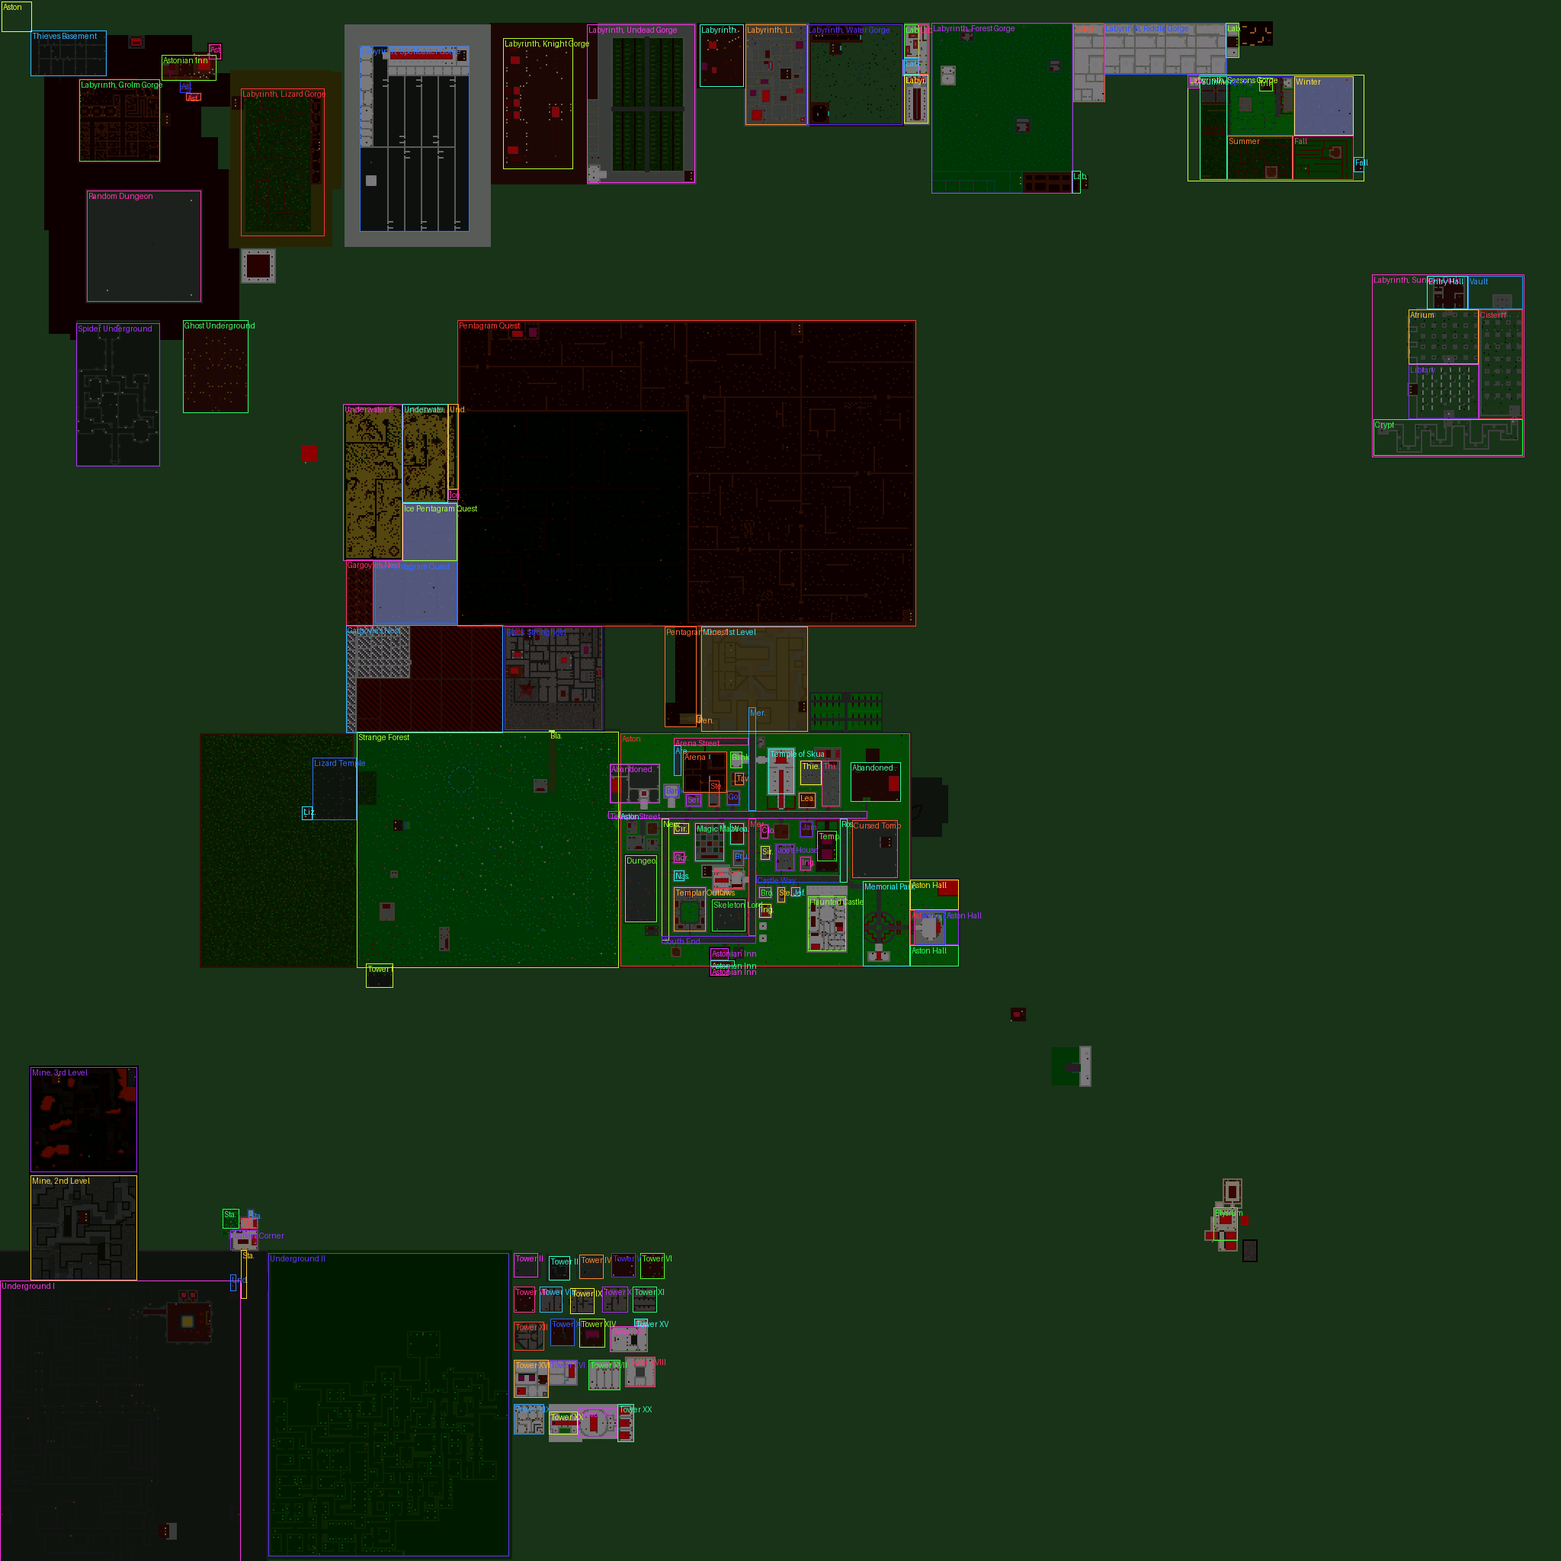
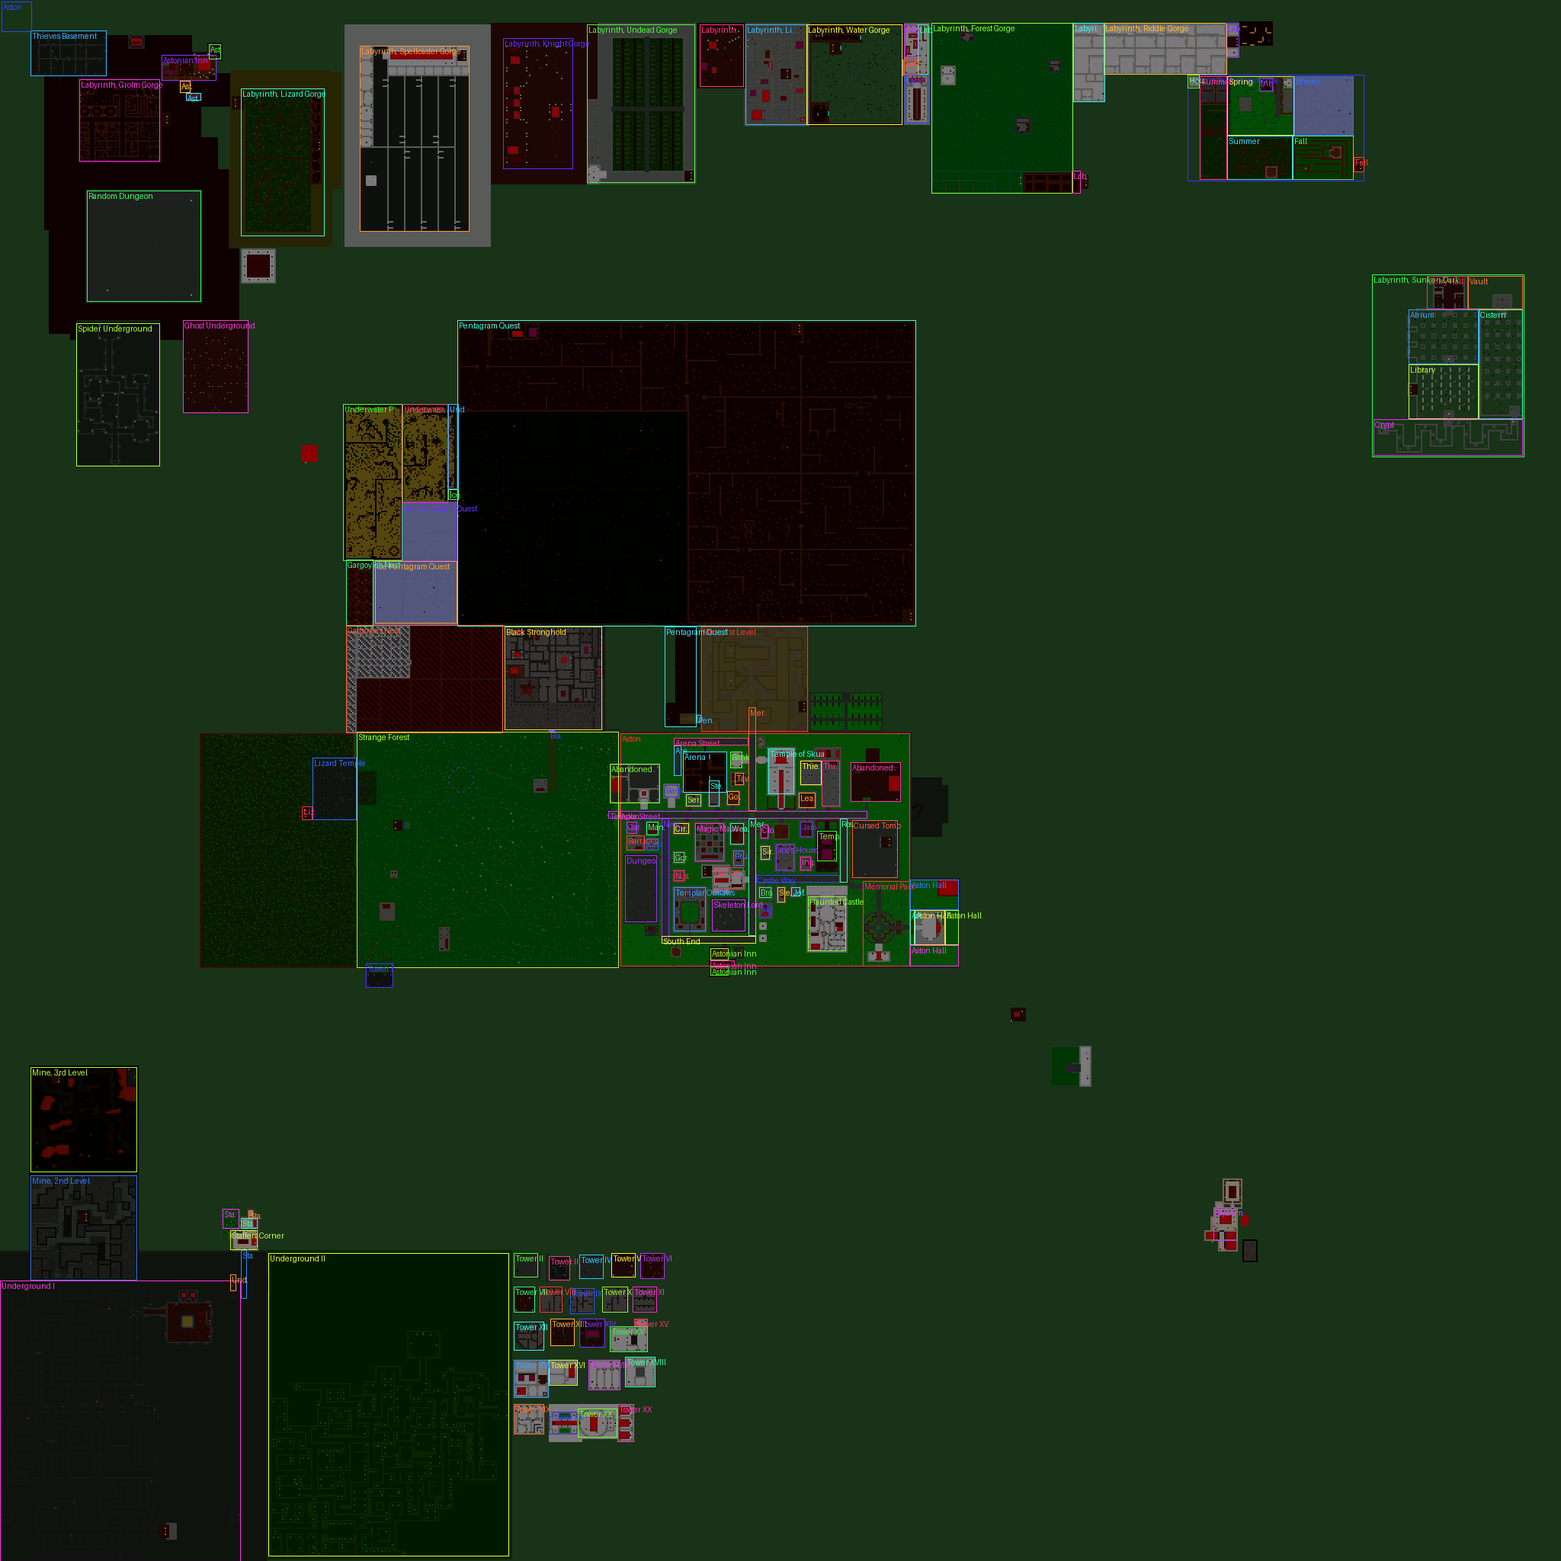
Aston zone names: Garna's Shop, Manfred's House, Leopold's House, Barracks
Claude-Session: https://claude.ai/code/session_01MSjWpMgByR7PswdtguveBk

diff --git a/server/area.c b/server/area.c
@@ -53,6 +53,10 @@ struct area area[]={
         {484,442,       488,490,        "Arena Street",                 2},
         {489,442,       508,446,        "Arena Street",                 2},
         {540,442,       546,451,        "Cirrus' House",                0},
+        {539,411,       546,417,        "Garna's Shop",                 0},
+        {539,424,       547,431,        "Manfred's House",              0},
+        {548,411,       557,422,        "Barracks",                     1},
+        {550,424,       557,431,        "Leopold's House",              0},
         {521,450,       528,459,        "Serena's House",               0},
         {540,456,       564,474,        "Magic Maze",                   1},
         {512,465,       528,471,        "Steven's House",               0},

diff --git a/docs/world_zones.md b/docs/world_zones.md
@@ -39,121 +39,125 @@ Shown by `/who`, by NPCs when asked where you are, and in server logs. A spot in
 | 29 | Arena Street | 484,442 | 488,490 | "on Arena Street" |
 | 30 | Arena Street | 489,442 | 508,446 | "on Arena Street" |
 | 31 | Cirrus' House | 540,442 | 546,451 | "in Cirrus' House" |
-| 32 | Serena's House | 521,450 | 528,459 | "in Serena's House" |
-| 33 | Magic Maze | 540,456 | 564,474 | "in the Magic Maze" |
-| 34 | Steven's House | 512,465 | 528,471 | "in Steven's House" |
-| 35 | Golden Armor Shop | 519,477 | 527,484 | "in the Golden Armor Shop" |
-| 36 | New Street | 537,434 | 616,438 | "on New Street" |
-| 37 | Gordon's House | 559,442 | 565,448 | "in Gordon's House" |
-| 38 | Nasir's House | 571,442 | 577,448 | "in Nasir's House" |
-| 39 | Templar Outlaws | 582,442 | 610,462 | "at Templar Outlaws" |
-| 40 | South End | 614,434 | 618,495 | "on South End" |
-| 41 | Skeleton Lord | 590,467 | 610,488 | "at Skeleton Lord" |
-| 42 | Merchant's Way | 537,491 | 613,495 | "on Merchant's Way" |
-| 43 | Merchant's Way | 464,491 | 531,495 | "on Merchant's Way" |
-| 44 | Ingrid's House | 593,498 | 601,505 | "in Ingrid's House" |
-| 45 | Abandoned Kwai Clan Hall | 501,400 | 526,432 | "in the Abandoned Kwai Clan Hall" |
-| 46 | Abandoned Gorn Clan Hall | 500,558 | 525,590 | "in the Abandoned Gorn Clan Hall" |
-| 47 | Arena | 493,448 | 519,476 | "in the Arena" |
-| 48 | Black Stronghold | 411,331 | 478,394 | "in the Black Stronghold" |
-| 49 | Dungeon of Doors | 561,410 | 604,430 | "in the Dungeon of Doors" |
-| 50 | Random Dungeon | 125,57 | 197,131 | "in the Random Dungeon" |
-| 51 | Mine, 1st Level | 411,460 | 479,529 | "in the Mine, 1st Level" |
-| 52 | Mine, 2nd Level | 771,20 | 839,89 | "in the Mine, 2nd Level" |
-| 53 | Mine, 3rd Level | 700,20 | 768,89 | "in the Mine, 3rd Level" |
-| 54 | Labyrinth, Grolm Gorge | 52,52 | 105,104 | "in the Labyrinth, Grolm Gorge" |
-| 55 | Labyrinth, Lizard Gorge | 58,158 | 154,212 | "in the Labyrinth, Lizard Gorge" |
-| 56 | Labyrinth, Spellcaster Gorge | 30,236 | 151,307 | "in the Labyrinth, Spellcaster Gorge" |
-| 57 | Labyrinth, Knight Gorge | 25,330 | 110,375 | "in the Labyrinth, Knight Gorge" |
-| 58 | Labyrinth, Undead Gorge | 16,385 | 119,455 | "in the Labyrinth, Undead Gorge" |
-| 59 | Labyrinth, Undead Gorge | 16,459 | 56,487 | "in the Labyrinth, Undead Gorge" |
-| 60 | Labyrinth, Light&Dark Gorge | 16,489 | 81,529 | "in the Labyrinth, Light&Dark Gorge" |
-| 61 | Labyrinth, Water Gorge | 16,529 | 81,591 | "in the Labyrinth, Water Gorge" |
-| 62 | Labyrinth, Final Entry | 16,593 | 37,602 | "in the Labyrinth, Final Entry" |
-| 63 | Labyrinth, Final Preparations | 16,602 | 48,608 | "in the Labyrinth, Final Preparations" |
-| 64 | Labyrinth, Final Test | 38,593 | 48,602 | "in the Labyrinth, Final Test" |
-| 65 | Labyrinth, Final Reward | 49,593 | 80,608 | "in the Labyrinth, Final Reward" |
-| 66 | Labyrinth, Forest Gorge | 15,611 | 126,703 | "in the Labyrinth, Forest Gorge" |
-| 67 | Labyrinth, Forest Gorge | 112,703 | 126,708 | "in the Labyrinth, Forest Gorge" |
-| 68 | Labyrinth, Riddle Gorge | 15,704 | 66,724 | "in the Labyrinth, Riddle Gorge" |
-| 69 | Labyrinth, Riddle Gorge | 15,724 | 48,804 | "in the Labyrinth, Riddle Gorge" |
-| 70 | Labyrinth, Riddle Gorge | 15,804 | 37,812 | "in the Labyrinth, Riddle Gorge" |
-| 71 | Labyrinth, Sunken Dark | 180,900 | 299,999 | "in the Labyrinth, Sunken Dark" |
-| 72 | Entry Hall | 181,936 | 202,962 | "in the Entry Hall" |
-| 73 | Atrium | 203,924 | 238,969 | "in the Atrium" |
-| 74 | Library | 239,924 | 274,969 | "in the Library" |
-| 75 | Crypt | 275,901 | 298,998 | "in the Crypt" |
-| 76 | Cistern | 203,970 | 274,998 | "in the Cistern" |
-| 77 | Vault | 181,963 | 202,998 | "in the Vault" |
-| 78 | Labyrinth, Seasons Gorge | 49,779 | 118,894 | "in the Labyrinth, Seasons Gorge" |
-| 79 | Hourglass Chamber | 49,779 | 57,786 | "in the Hourglass Chamber" |
-| 80 | Summer | 50,787 | 117,804 | "in Summer" |
-| 81 | Summer | 89,805 | 117,847 | "in Summer" |
-| 82 | Spring | 50,805 | 88,848 | "in Spring" |
-| 83 | Inn | 51,826 | 59,834 | "in the Inn" |
-| 84 | Fall | 89,848 | 117,887 | "in Fall" |
-| 85 | Fall | 103,888 | 112,894 | "in Fall" |
-| 86 | Winter | 50,849 | 88,887 | "in Winter" |
-| 87 | Spider Underground | 212,50 | 305,104 | "in the Spider Underground" |
-| 88 | Ghost Underground | 210,120 | 270,162 | "in the Ghost Underground" |
-| 89 | Pentagram Quest | 210,300 | 410,600 | "in the Pentagram Quest" |
-| 90 | Ice Pentagram Quest | 368,246 | 408,299 | "in the Ice Pentagram Quest" |
-| 91 | Ice Pentagram Quest | 330,264 | 367,299 | "in the Ice Pentagram Quest" |
-| 92 | Underwater Pentagram Quest | 265,225 | 367,263 | "in the Underwater Pentagram Quest" |
-| 93 | Underwater Pentagram Quest | 265,264 | 329,293 | "in the Underwater Pentagram Quest" |
-| 94 | Underwater Pentagram Quest | 265,294 | 320,300 | "in the Underwater Pentagram Quest" |
-| 95 | Underground II | 822,176 | 1020,333 | "in the Underground II" |
-| 96 | Elysium | 792,796 | 813,811 | "in the Elysium" |
-| 97 | Gargoyle's Nest | 367,227 | 410,244 | "in the Gargoyle's Nest" |
-| 98 | Gargoyle's Nest | 410,227 | 480,329 | "in the Gargoyle's Nest" |
-| 99 | Aston | 1,1 | 20,20 | "in Aston" |
-| 100 | Astonian Inn | 622,466 | 629,477 | "in the Astonian Inn" |
-| 101 | Astonian Inn | 630,466 | 633,481 | "in the Astonian Inn" |
-| 102 | Astonian Inn | 61,122 | 65,131 | "in the Astonian Inn" |
-| 103 | Astonian Inn | 53,118 | 60,124 | "in the Astonian Inn" |
-| 104 | Astonian Inn | 36,106 | 52,141 | "in the Astonian Inn" |
-| 105 | Astonian Inn | 29,137 | 38,144 | "in the Astonian Inn" |
-| 106 | Memorial Park | 578,566 | 633,596 | "in the Memorial Park" |
-| 107 | Staffers Corner | 820,158 | 851,161 | "in the Staffers Corner" |
-| 108 | Staffers Corner | 807,151 | 819,168 | "in the Staffers Corner" |
-| 109 | Staffers Corner | 793,146 | 805,156 | "in the Staffers Corner" |
-| 110 | Staffers Corner | 799,158 | 805,168 | "in the Staffers Corner" |
-| 111 | Staffers Corner | 794,163 | 798,165 | "in the Staffers Corner" |
-| 112 | Tower I | 632,240 | 647,257 | "in the Tower I" |
-| 113 | Tower II | 822,337 | 837,352 | "in the Tower II" |
-| 114 | Tower III | 824,360 | 839,373 | "in the Tower III" |
-| 115 | Tower IV | 823,380 | 838,395 | "in the Tower IV" |
-| 116 | Tower V | 822,401 | 837,416 | "in the Tower V" |
-| 117 | Tower VI | 822,420 | 838,435 | "in the Tower VI" |
-| 118 | Tower VII | 844,337 | 860,350 | "in the Tower VII" |
-| 119 | Tower VIII | 844,354 | 860,368 | "in the Tower VIII" |
-| 120 | Tower IX | 845,374 | 861,389 | "in the Tower IX" |
-| 121 | Tower X | 844,395 | 860,411 | "in the Tower X" |
-| 122 | Tower XI | 844,415 | 860,430 | "in the Tower XI" |
-| 123 | Tower XII | 867,337 | 885,356 | "in the Tower XII" |
-| 124 | Tower XIII | 865,361 | 882,376 | "in the Tower XIII" |
-| 125 | Tower XIV | 865,380 | 883,396 | "in the Tower XIV" |
-| 126 | Tower XV | 870,400 | 886,424 | "in the Tower XV" |
-| 127 | Tower XV | 865,416 | 869,424 | "in the Tower XV" |
-| 128 | Tower XVI | 892,337 | 916,359 | "in the Tower XVI" |
-| 129 | Tower XVI | 892,360 | 908,378 | "in the Tower XVI" |
-| 130 | Tower XVII | 892,386 | 911,406 | "in the Tower XVII" |
-| 131 | Tower XVIII | 890,410 | 909,429 | "in the Tower XVIII" |
-| 132 | Tower XIX | 921,337 | 940,356 | "in the Tower XIX" |
-| 133 | Tower XX | 926,360 | 940,378 | "in the Tower XX" |
-| 134 | Tower XX | 924,379 | 942,404 | "in the Tower XX" |
-| 135 | Tower XX | 921,405 | 945,415 | "in the Tower XX" |
-| 136 | Pentagram Quest | 411,436 | 476,456 | "in the Pentagram Quest" |
-| 137 | Aston Hall | 597,600 | 619,619 | "in Aston Hall" |
-| 138 | Lizard Temple Shrine | 529,198 | 537,204 | "in the Lizard Temple Shrine" |
-| 139 | Ice Pents Shrine | 321,294 | 327,300 | "in the Ice Pents Shrine" |
-| 140 | Lizard Temple Shrine | 529,198 | 537,204 | "in the Lizard Temple Shrine" |
-| 141 | Aston Hall | 577,597 | 596,628 | "in the Aston Hall" |
-| 142 | Aston Hall | 597,620 | 619,628 | "in the Aston Hall" |
-| 143 | Aston Hall | 620,597 | 633,628 | "in the Aston Hall" |
-| 144 | Aston Hall | 597,597 | 619,599 | "in the Aston Hall" |
-| 145 | Underground I | 836,151 | 846,154 | "in the Underground I" |
-| 146 | Black Stronghold | 479,360 | 479,363 | "in the Black Stronghold" |
-| 147 | Astonian Inn | 634,466 | 639,477 | "in the Astonian Inn" |
-| 148 | Aston | 532,406 | 536,406 | "in Aston" |
-| 149 | Pentagram Quest | 469,457 | 473,459 | "in the Pentagram Quest" |
+| 32 | Garna's Shop | 539,411 | 546,417 | "in Garna's Shop" |
+| 33 | Manfred's House | 539,424 | 547,431 | "in Manfred's House" |
+| 34 | Barracks | 548,411 | 557,422 | "in the Barracks" |
+| 35 | Leopold's House | 550,424 | 557,431 | "in Leopold's House" |
+| 36 | Serena's House | 521,450 | 528,459 | "in Serena's House" |
+| 37 | Magic Maze | 540,456 | 564,474 | "in the Magic Maze" |
+| 38 | Steven's House | 512,465 | 528,471 | "in Steven's House" |
+| 39 | Golden Armor Shop | 519,477 | 527,484 | "in the Golden Armor Shop" |
+| 40 | New Street | 537,434 | 616,438 | "on New Street" |
+| 41 | Gordon's House | 559,442 | 565,448 | "in Gordon's House" |
+| 42 | Nasir's House | 571,442 | 577,448 | "in Nasir's House" |
+| 43 | Templar Outlaws | 582,442 | 610,462 | "at Templar Outlaws" |
+| 44 | South End | 614,434 | 618,495 | "on South End" |
+| 45 | Skeleton Lord | 590,467 | 610,488 | "at Skeleton Lord" |
+| 46 | Merchant's Way | 537,491 | 613,495 | "on Merchant's Way" |
+| 47 | Merchant's Way | 464,491 | 531,495 | "on Merchant's Way" |
+| 48 | Ingrid's House | 593,498 | 601,505 | "in Ingrid's House" |
+| 49 | Abandoned Kwai Clan Hall | 501,400 | 526,432 | "in the Abandoned Kwai Clan Hall" |
+| 50 | Abandoned Gorn Clan Hall | 500,558 | 525,590 | "in the Abandoned Gorn Clan Hall" |
+| 51 | Arena | 493,448 | 519,476 | "in the Arena" |
+| 52 | Black Stronghold | 411,331 | 478,394 | "in the Black Stronghold" |
+| 53 | Dungeon of Doors | 561,410 | 604,430 | "in the Dungeon of Doors" |
+| 54 | Random Dungeon | 125,57 | 197,131 | "in the Random Dungeon" |
+| 55 | Mine, 1st Level | 411,460 | 479,529 | "in the Mine, 1st Level" |
+| 56 | Mine, 2nd Level | 771,20 | 839,89 | "in the Mine, 2nd Level" |
+| 57 | Mine, 3rd Level | 700,20 | 768,89 | "in the Mine, 3rd Level" |
+| 58 | Labyrinth, Grolm Gorge | 52,52 | 105,104 | "in the Labyrinth, Grolm Gorge" |
+| 59 | Labyrinth, Lizard Gorge | 58,158 | 154,212 | "in the Labyrinth, Lizard Gorge" |
+| 60 | Labyrinth, Spellcaster Gorge | 30,236 | 151,307 | "in the Labyrinth, Spellcaster Gorge" |
+| 61 | Labyrinth, Knight Gorge | 25,330 | 110,375 | "in the Labyrinth, Knight Gorge" |
+| 62 | Labyrinth, Undead Gorge | 16,385 | 119,455 | "in the Labyrinth, Undead Gorge" |
+| 63 | Labyrinth, Undead Gorge | 16,459 | 56,487 | "in the Labyrinth, Undead Gorge" |
+| 64 | Labyrinth, Light&Dark Gorge | 16,489 | 81,529 | "in the Labyrinth, Light&Dark Gorge" |
+| 65 | Labyrinth, Water Gorge | 16,529 | 81,591 | "in the Labyrinth, Water Gorge" |
+| 66 | Labyrinth, Final Entry | 16,593 | 37,602 | "in the Labyrinth, Final Entry" |
+| 67 | Labyrinth, Final Preparations | 16,602 | 48,608 | "in the Labyrinth, Final Preparations" |
+| 68 | Labyrinth, Final Test | 38,593 | 48,602 | "in the Labyrinth, Final Test" |
+| 69 | Labyrinth, Final Reward | 49,593 | 80,608 | "in the Labyrinth, Final Reward" |
+| 70 | Labyrinth, Forest Gorge | 15,611 | 126,703 | "in the Labyrinth, Forest Gorge" |
+| 71 | Labyrinth, Forest Gorge | 112,703 | 126,708 | "in the Labyrinth, Forest Gorge" |
+| 72 | Labyrinth, Riddle Gorge | 15,704 | 66,724 | "in the Labyrinth, Riddle Gorge" |
+| 73 | Labyrinth, Riddle Gorge | 15,724 | 48,804 | "in the Labyrinth, Riddle Gorge" |
+| 74 | Labyrinth, Riddle Gorge | 15,804 | 37,812 | "in the Labyrinth, Riddle Gorge" |
+| 75 | Labyrinth, Sunken Dark | 180,900 | 299,999 | "in the Labyrinth, Sunken Dark" |
+| 76 | Entry Hall | 181,936 | 202,962 | "in the Entry Hall" |
+| 77 | Atrium | 203,924 | 238,969 | "in the Atrium" |
+| 78 | Library | 239,924 | 274,969 | "in the Library" |
+| 79 | Crypt | 275,901 | 298,998 | "in the Crypt" |
+| 80 | Cistern | 203,970 | 274,998 | "in the Cistern" |
+| 81 | Vault | 181,963 | 202,998 | "in the Vault" |
+| 82 | Labyrinth, Seasons Gorge | 49,779 | 118,894 | "in the Labyrinth, Seasons Gorge" |
+| 83 | Hourglass Chamber | 49,779 | 57,786 | "in the Hourglass Chamber" |
+| 84 | Summer | 50,787 | 117,804 | "in Summer" |
+| 85 | Summer | 89,805 | 117,847 | "in Summer" |
+| 86 | Spring | 50,805 | 88,848 | "in Spring" |
+| 87 | Inn | 51,826 | 59,834 | "in the Inn" |
+| 88 | Fall | 89,848 | 117,887 | "in Fall" |
+| 89 | Fall | 103,888 | 112,894 | "in Fall" |
+| 90 | Winter | 50,849 | 88,887 | "in Winter" |
+| 91 | Spider Underground | 212,50 | 305,104 | "in the Spider Underground" |
+| 92 | Ghost Underground | 210,120 | 270,162 | "in the Ghost Underground" |
+| 93 | Pentagram Quest | 210,300 | 410,600 | "in the Pentagram Quest" |
+| 94 | Ice Pentagram Quest | 368,246 | 408,299 | "in the Ice Pentagram Quest" |
+| 95 | Ice Pentagram Quest | 330,264 | 367,299 | "in the Ice Pentagram Quest" |
+| 96 | Underwater Pentagram Quest | 265,225 | 367,263 | "in the Underwater Pentagram Quest" |
+| 97 | Underwater Pentagram Quest | 265,264 | 329,293 | "in the Underwater Pentagram Quest" |
+| 98 | Underwater Pentagram Quest | 265,294 | 320,300 | "in the Underwater Pentagram Quest" |
+| 99 | Underground II | 822,176 | 1020,333 | "in the Underground II" |
+| 100 | Elysium | 792,796 | 813,811 | "in the Elysium" |
+| 101 | Gargoyle's Nest | 367,227 | 410,244 | "in the Gargoyle's Nest" |
+| 102 | Gargoyle's Nest | 410,227 | 480,329 | "in the Gargoyle's Nest" |
+| 103 | Aston | 1,1 | 20,20 | "in Aston" |
+| 104 | Astonian Inn | 622,466 | 629,477 | "in the Astonian Inn" |
+| 105 | Astonian Inn | 630,466 | 633,481 | "in the Astonian Inn" |
+| 106 | Astonian Inn | 61,122 | 65,131 | "in the Astonian Inn" |
+| 107 | Astonian Inn | 53,118 | 60,124 | "in the Astonian Inn" |
+| 108 | Astonian Inn | 36,106 | 52,141 | "in the Astonian Inn" |
+| 109 | Astonian Inn | 29,137 | 38,144 | "in the Astonian Inn" |
+| 110 | Memorial Park | 578,566 | 633,596 | "in the Memorial Park" |
+| 111 | Staffers Corner | 820,158 | 851,161 | "in the Staffers Corner" |
+| 112 | Staffers Corner | 807,151 | 819,168 | "in the Staffers Corner" |
+| 113 | Staffers Corner | 793,146 | 805,156 | "in the Staffers Corner" |
+| 114 | Staffers Corner | 799,158 | 805,168 | "in the Staffers Corner" |
+| 115 | Staffers Corner | 794,163 | 798,165 | "in the Staffers Corner" |
+| 116 | Tower I | 632,240 | 647,257 | "in the Tower I" |
+| 117 | Tower II | 822,337 | 837,352 | "in the Tower II" |
+| 118 | Tower III | 824,360 | 839,373 | "in the Tower III" |
+| 119 | Tower IV | 823,380 | 838,395 | "in the Tower IV" |
+| 120 | Tower V | 822,401 | 837,416 | "in the Tower V" |
+| 121 | Tower VI | 822,420 | 838,435 | "in the Tower VI" |
+| 122 | Tower VII | 844,337 | 860,350 | "in the Tower VII" |
+| 123 | Tower VIII | 844,354 | 860,368 | "in the Tower VIII" |
+| 124 | Tower IX | 845,374 | 861,389 | "in the Tower IX" |
+| 125 | Tower X | 844,395 | 860,411 | "in the Tower X" |
+| 126 | Tower XI | 844,415 | 860,430 | "in the Tower XI" |
+| 127 | Tower XII | 867,337 | 885,356 | "in the Tower XII" |
+| 128 | Tower XIII | 865,361 | 882,376 | "in the Tower XIII" |
+| 129 | Tower XIV | 865,380 | 883,396 | "in the Tower XIV" |
+| 130 | Tower XV | 870,400 | 886,424 | "in the Tower XV" |
+| 131 | Tower XV | 865,416 | 869,424 | "in the Tower XV" |
+| 132 | Tower XVI | 892,337 | 916,359 | "in the Tower XVI" |
+| 133 | Tower XVI | 892,360 | 908,378 | "in the Tower XVI" |
+| 134 | Tower XVII | 892,386 | 911,406 | "in the Tower XVII" |
+| 135 | Tower XVIII | 890,410 | 909,429 | "in the Tower XVIII" |
+| 136 | Tower XIX | 921,337 | 940,356 | "in the Tower XIX" |
+| 137 | Tower XX | 926,360 | 940,378 | "in the Tower XX" |
+| 138 | Tower XX | 924,379 | 942,404 | "in the Tower XX" |
+| 139 | Tower XX | 921,405 | 945,415 | "in the Tower XX" |
+| 140 | Pentagram Quest | 411,436 | 476,456 | "in the Pentagram Quest" |
+| 141 | Aston Hall | 597,600 | 619,619 | "in Aston Hall" |
+| 142 | Lizard Temple Shrine | 529,198 | 537,204 | "in the Lizard Temple Shrine" |
+| 143 | Ice Pents Shrine | 321,294 | 327,300 | "in the Ice Pents Shrine" |
+| 144 | Lizard Temple Shrine | 529,198 | 537,204 | "in the Lizard Temple Shrine" |
+| 145 | Aston Hall | 577,597 | 596,628 | "in the Aston Hall" |
+| 146 | Aston Hall | 597,620 | 619,628 | "in the Aston Hall" |
+| 147 | Aston Hall | 620,597 | 633,628 | "in the Aston Hall" |
+| 148 | Aston Hall | 597,597 | 619,599 | "in the Aston Hall" |
+| 149 | Underground I | 836,151 | 846,154 | "in the Underground I" |
+| 150 | Black Stronghold | 479,360 | 479,363 | "in the Black Stronghold" |
+| 151 | Astonian Inn | 634,466 | 639,477 | "in the Astonian Inn" |
+| 152 | Aston | 532,406 | 536,406 | "in Aston" |
+| 153 | Pentagram Quest | 469,457 | 473,459 | "in the Pentagram Quest" |

diff --git a/CHANGES.md b/CHANGES.md
@@ -189,6 +189,7 @@ A new labyrinth part after Lab 10 (map 180,900 - 299,999). Its layout is an Exce
   - **Spider Underground** (through the hole in the Abandoned Kwai Clan Hall, Spider Queen) and **Ghost Underground** (through the hole in the Abandoned Gorn Clan Hall, Ghost King) had no name.
   - **Aston streets**: Temple Street runs the whole way from the town gate to the Gorn Clan Hall (Rose Street starts south of it), Merchant's Way goes on north of Temple Street up to the mines, and the street around the arena is **Arena Street**, with new street signs where it meets Merchant's Way (plus Merchant's Way signs north of Temple Street; `tools/world/aston_signs.txt`).
   - The second **Bank**, across from the Temple of Skua, had no name.
+  - Four buildings west of New Street now have names: **Garna's Shop** (torches, lock picks, flasks), **Manfred's House**, **Leopold's House** and the **Barracks** (Peacekeepers and a Cityguard).
   - **Ice Pentagram Quest** was one rectangle that also took in part of the water next to it; it is now two rectangles around the ice only, and the water is named **Underwater Pentagram Quest**.
 - `area.c`: the second "Thieves House I" rectangle (20,20 - 49,69) is the thieves' underground area, now named **Thieves Basement**.
 - Note: the small "Aston" box at 1,1 - 20,20 is deliberate. Gods are parked at 10,10 while they take over an NPC (`#usurp`), and naming it "Aston" keeps `/who` from showing that.
